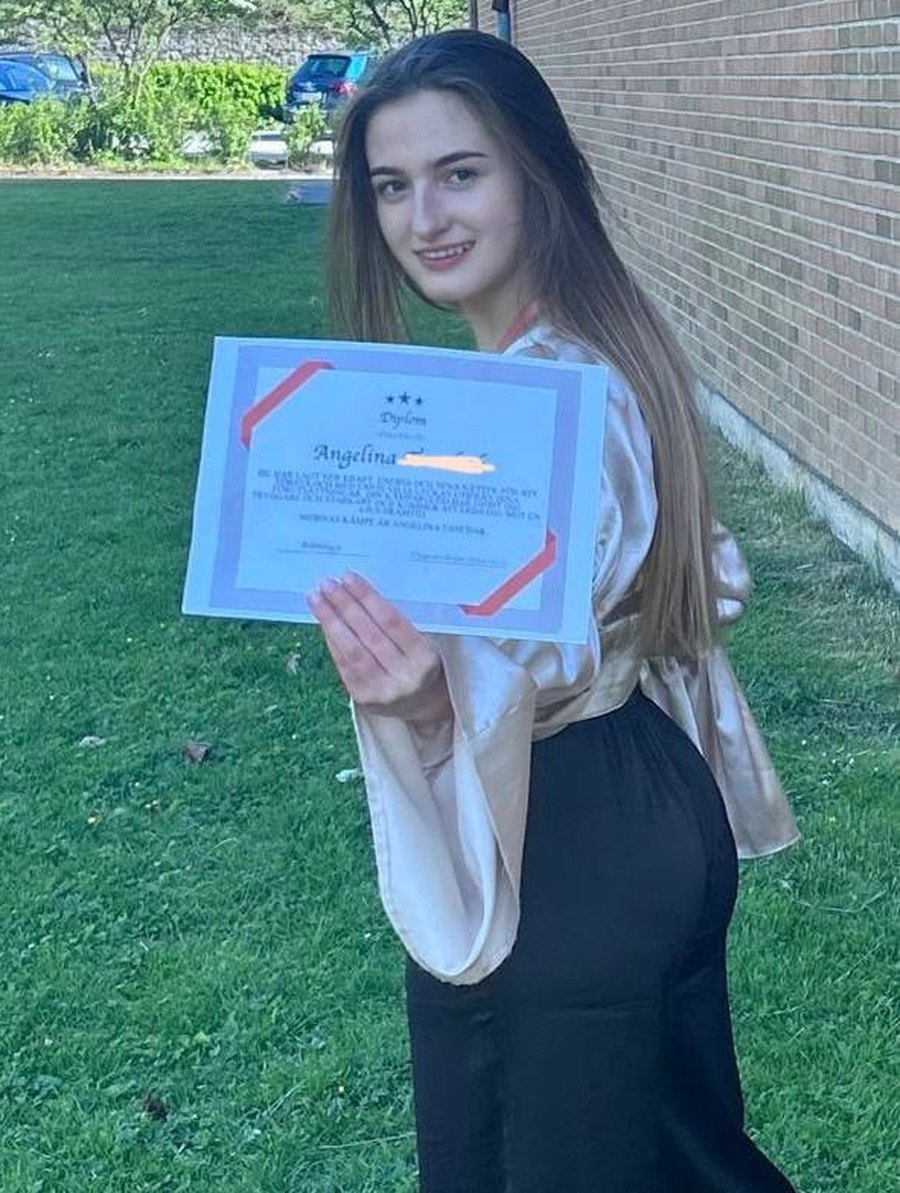
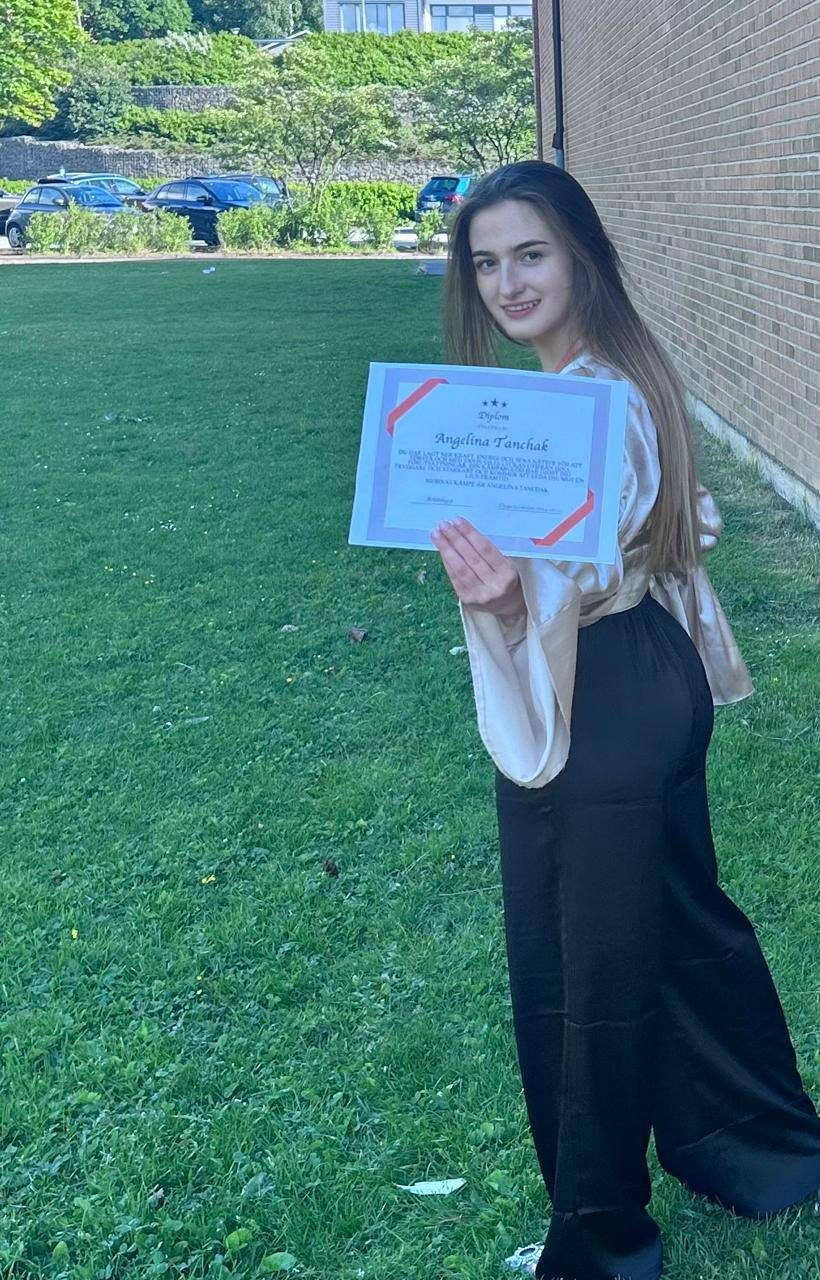
Нове фото з дипломом і галерея з чотирьох фото в блоці про мене

diff --git a/index.html b/index.html
@@ -317,6 +317,21 @@
         .perks-grid .perk:nth-child(5) { grid-column:1 / -1; border-right:0!important; justify-content:center; text-align:left; }
         .perks-grid .perk:nth-child(5) > * { flex:0 0 auto; }
       }
+
+      /* галерея в блоці «Про мене» */
+      .about-photos { width:min(100%,420px); }
+      .about-photos .polaroid { width:100%; }
+      .about-thumbs { display:grid; grid-template-columns:repeat(4,1fr); gap:10px; margin-top:62px; }
+      .about-thumb { padding:5px 5px 8px; border:0; border-radius:2px; background:#fff; box-shadow:0 6px 16px rgba(34,46,58,.13); cursor:pointer; transition:transform .18s ease, box-shadow .18s ease; }
+      .about-thumb:nth-child(odd) { transform:rotate(-2.5deg); }
+      .about-thumb:nth-child(2n) { transform:rotate(2deg); }
+      .about-thumb img { display:block; width:100%; aspect-ratio:.86; object-fit:cover; }
+      .about-thumb:hover, .about-thumb:focus-visible { transform:rotate(0) translateY(-4px); box-shadow:0 12px 24px rgba(34,46,58,.2); outline:none; }
+      .about-thumb.is-active { box-shadow:0 0 0 2px #f4c54b, 0 10px 20px rgba(34,46,58,.18); }
+      @media (max-width:760px){
+        .about-photos { margin:auto; }
+        .about-thumbs { margin-top:22px; gap:8px; }
+      }
 </style>
   </head>
   <body>
@@ -367,7 +382,15 @@
 
       <section class="section about" id="about">
         <div class="container about-grid">
-          <figure class="polaroid reveal"><img src="angelina-diploma.jpg" alt="Ангеліна з дипломом" /><figcaption>Jag är inte för alla ♡</figcaption><span class="about-doodle">♡</span><aside class="hero-note"><strong>Привіт! 👋</strong><p>Я Ангеліна, твій провідник у світ шведської мови ♡</p></aside></figure>
+          <div class="about-photos reveal">
+            <figure class="polaroid"><img id="aboutPhoto" src="angelina-diploma.jpg" alt="Ангеліна з дипломом" /><figcaption>Jag är inte för alla ♡</figcaption><span class="about-doodle">♡</span><aside class="hero-note"><strong>Привіт! 👋</strong><p>Я Ангеліна, твій провідник у світ шведської мови ♡</p></aside></figure>
+            <div class="about-thumbs" id="aboutThumbs" role="tablist" aria-label="Фотографії Ангеліни">
+              <button class="about-thumb is-active" type="button" role="tab" aria-selected="true" data-src="angelina-diploma.jpg" data-alt="Ангеліна з дипломом"><img src="angelina-diploma.jpg" alt="Ангеліна з дипломом" loading="lazy" /></button>
+              <button class="about-thumb" type="button" role="tab" aria-selected="false" data-src="angelina-photo-1.jpg" data-alt="Ангеліна на прогулянці"><img src="angelina-photo-1.jpg" alt="Ангеліна на прогулянці" loading="lazy" /></button>
+              <button class="about-thumb" type="button" role="tab" aria-selected="false" data-src="angelina-photo-2.jpg" data-alt="Ангеліна на скелі з видом на місто"><img src="angelina-photo-2.jpg" alt="Ангеліна на скелі з видом на місто" loading="lazy" /></button>
+              <button class="about-thumb" type="button" role="tab" aria-selected="false" data-src="angelina-photo-3.jpg" data-alt="Ангеліна на сонці"><img src="angelina-photo-3.jpg" alt="Ангеліна на сонці" loading="lazy" /></button>
+            </div>
+          </div>
           <div class="about-copy reveal"><span class="eyebrow">трохи ближче</span><h2 class="section-title">Про мене <span class="yellow">♡</span></h2><p>Я знаю, як страшно почати говорити новою мовою. Тому на моїх заняттях не потрібно боятися помилок — тут можна говорити, пробувати, сміятися і поступово ставати впевненішим.</p><p>Моя мета — щоб ти не просто знав шведську, а <strong>реально міг нею користуватися у житті.</strong></p><div class="lifestyle" aria-label="Мої інтереси"><span title="Piano">🎹</span><span title="Travel">✈</span><span title="Books">📚</span><span title="Coffee">☕</span><span title="Moments">📷</span></div></div>
         </div>
       </section>
@@ -799,6 +822,24 @@
       document.getElementById('review-prev').addEventListener('click', () => moveReview(-1)); document.getElementById('review-next').addEventListener('click', () => moveReview(1));
       window.addEventListener('resize', () => { reviewIndex = Math.min(reviewIndex, Math.max(0, reviews.length - visibleReviews())); renderReviews(); });
       setInterval(() => moveReview(1), 6500);
+      // галерея в блоці «Про мене»: клік по мініатюрі підставляє фото у полароїд
+      (function(){
+        const photo = document.getElementById('aboutPhoto');
+        const thumbs = document.getElementById('aboutThumbs');
+        if (!photo || !thumbs) return;
+        thumbs.querySelectorAll('.about-thumb').forEach(thumb => {
+          thumb.addEventListener('click', () => {
+            photo.src = thumb.dataset.src;
+            photo.alt = thumb.dataset.alt || '';
+            thumbs.querySelectorAll('.about-thumb').forEach(other => {
+              const active = other === thumb;
+              other.classList.toggle('is-active', active);
+              other.setAttribute('aria-selected', active ? 'true' : 'false');
+            });
+          });
+        });
+      })();
+
       const observer = new IntersectionObserver(entries => entries.forEach(entry => { if (entry.isIntersecting) { entry.target.classList.add('visible'); observer.unobserve(entry.target); } }), { threshold:.12 });
       document.querySelectorAll('.reveal').forEach(element => observer.observe(element));
     </script>
